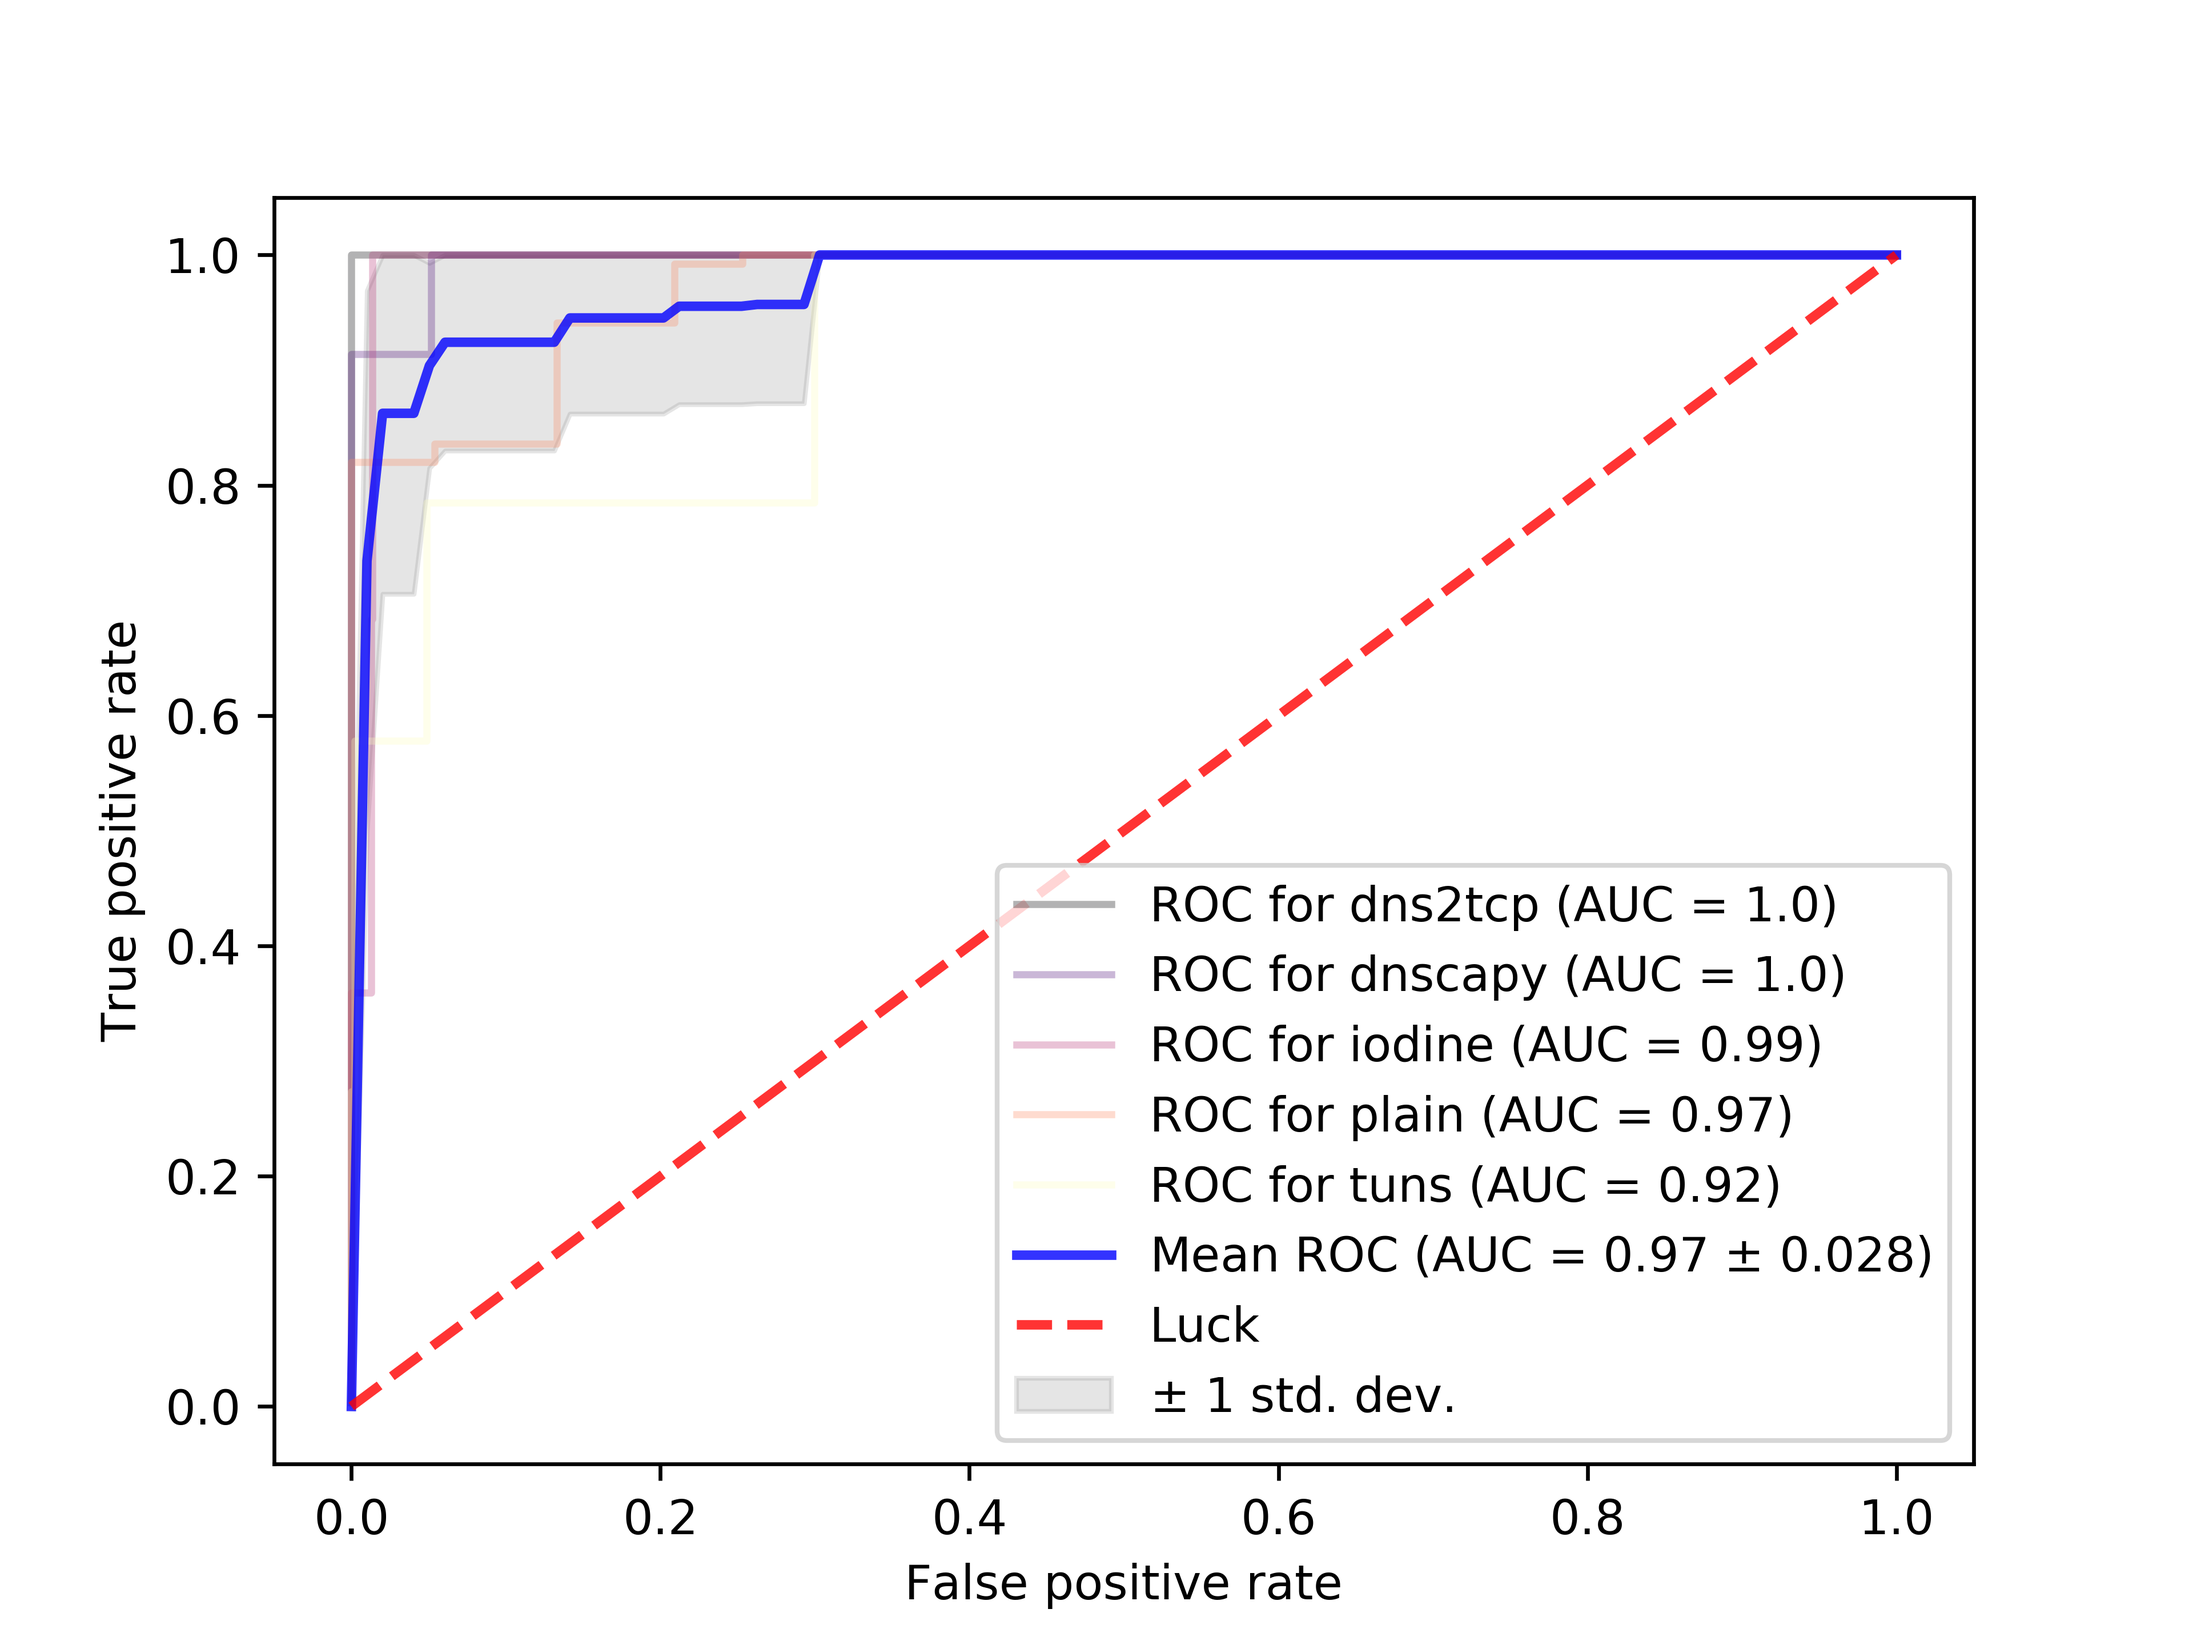
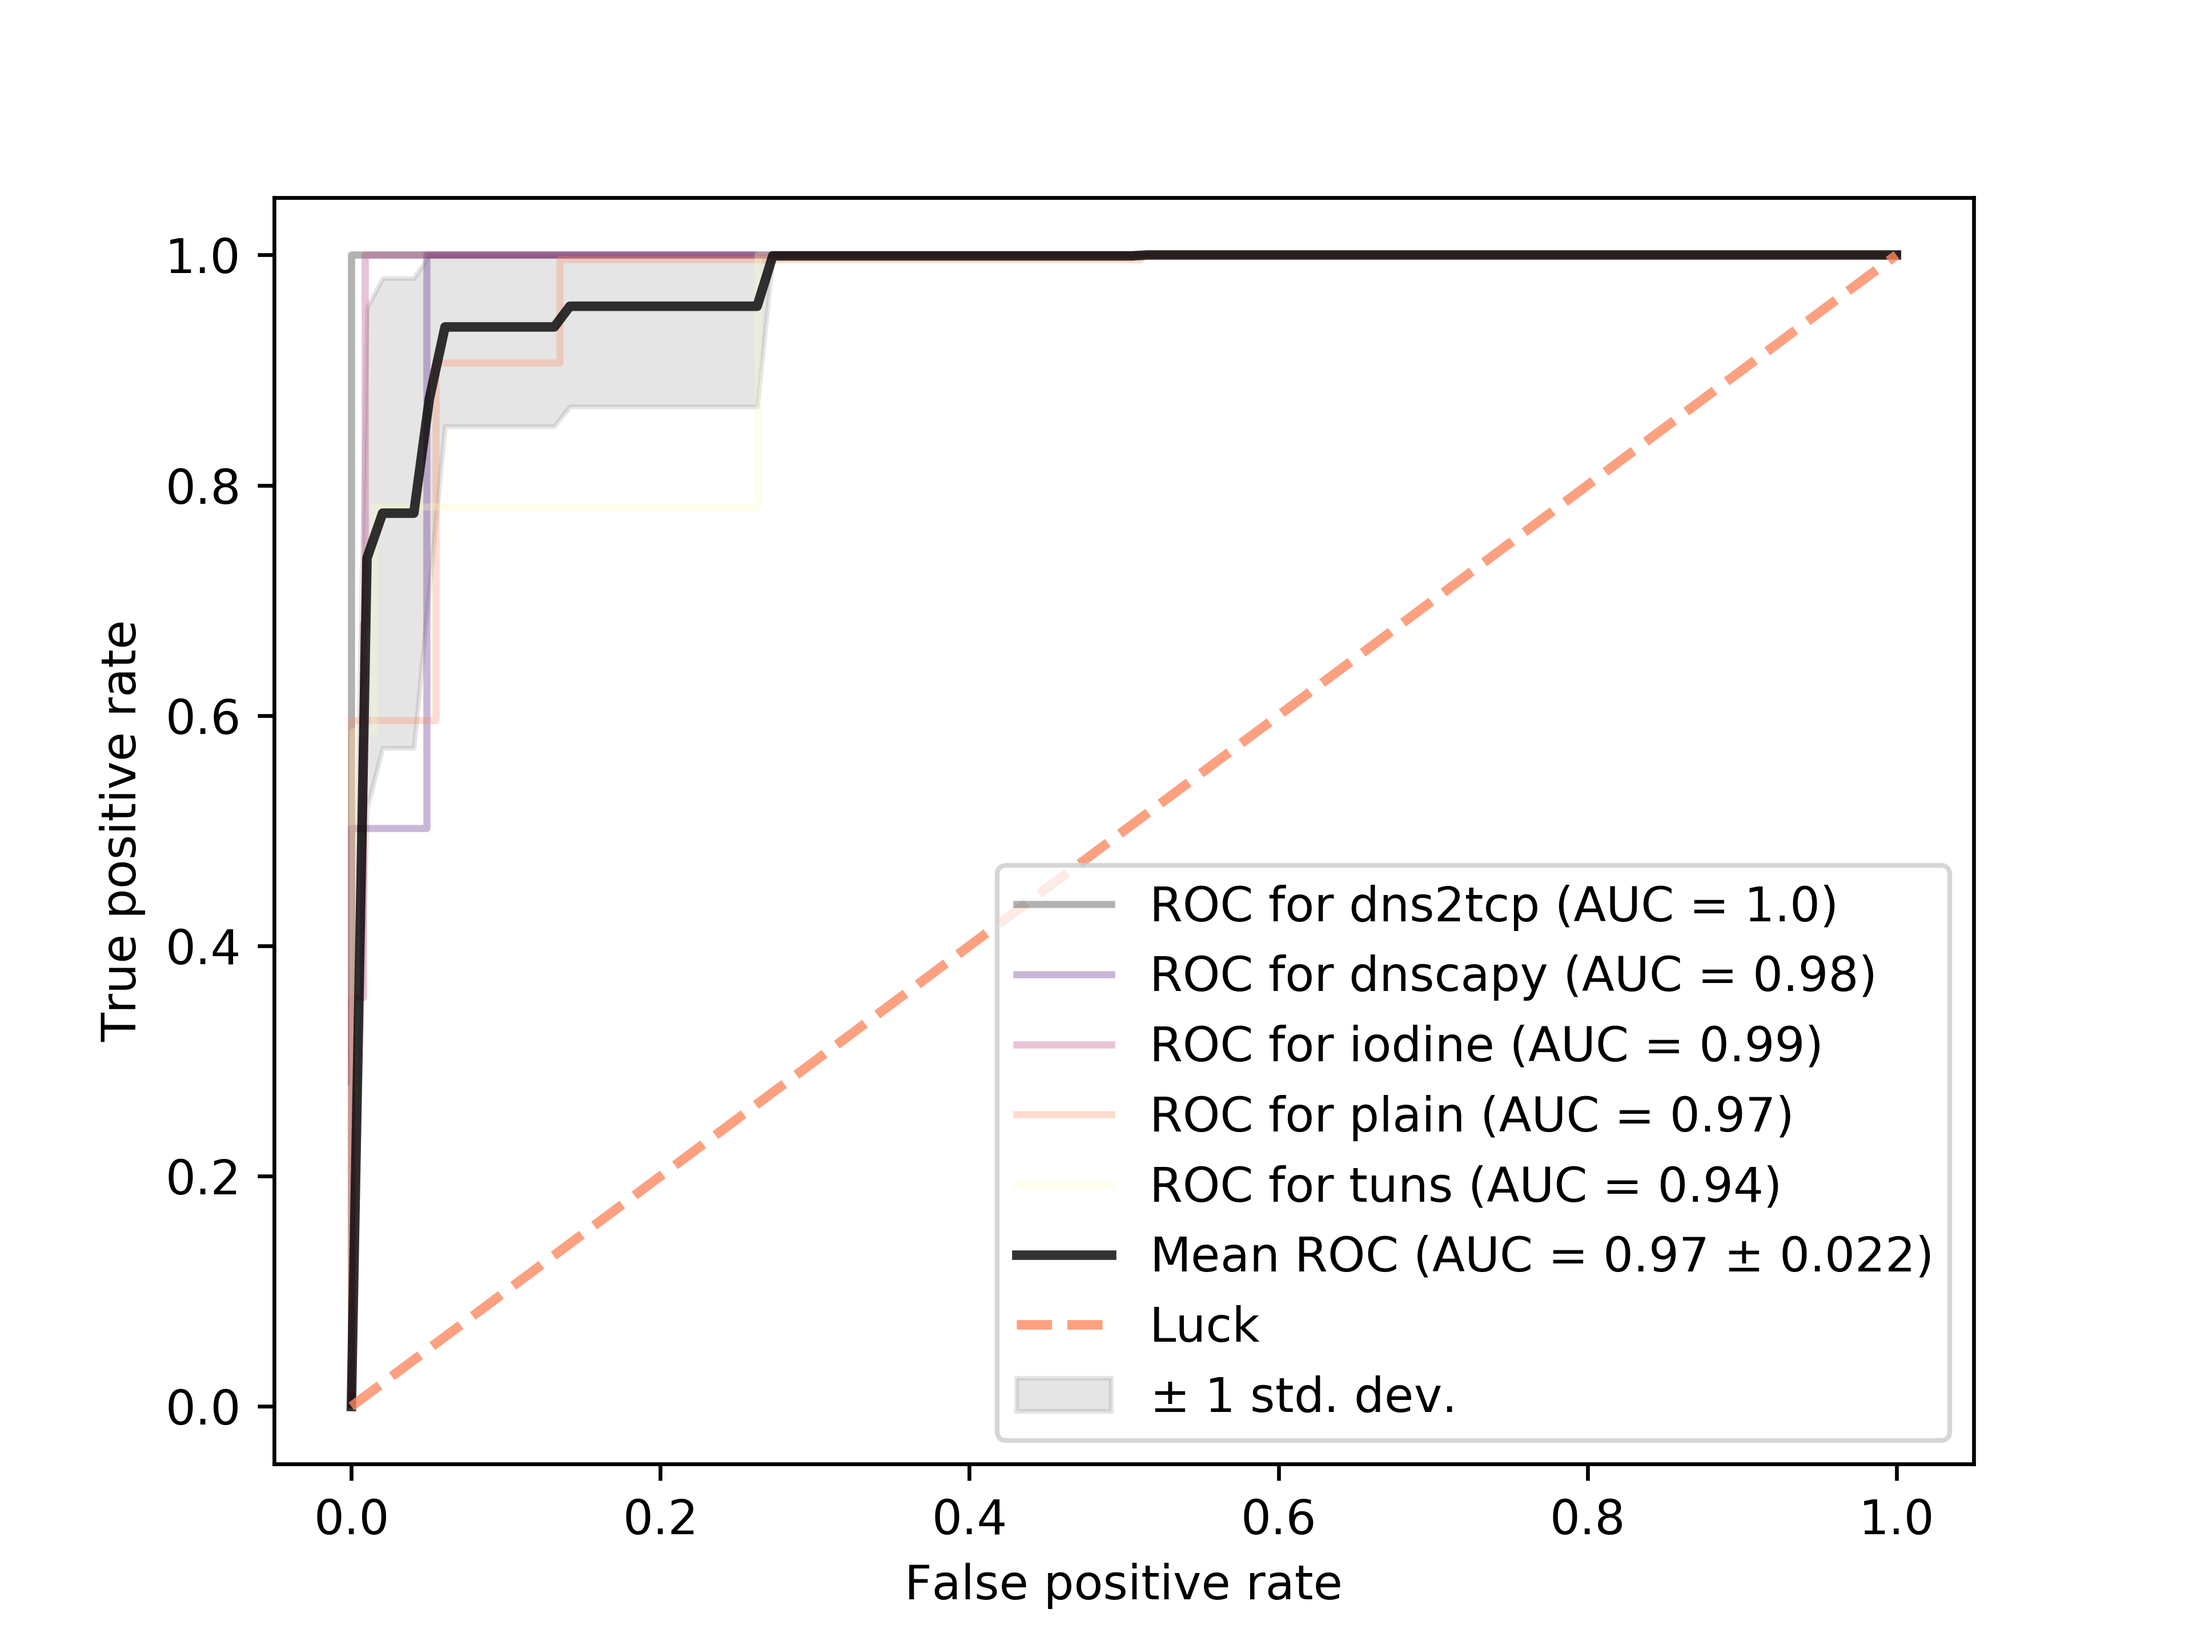
Change the colors of ROC curve plot.

diff --git a/dns/nn.py b/dns/nn.py
@@ -141,7 +141,7 @@ def train_and_estimate(dim, num_classes, units, total, batch_size, filenames):
 
         # Evaluate model accuracy.
         batch = []
-        for _ in range(batch_size*2):
+        for _ in range(batch_size*4):
             for f in files:
                 batch.append(numpy.array(next(f)))
 
@@ -165,6 +165,8 @@ def plot(x_true, y_true, y_score, labels, num_classes, cm=plt.cm.magma):
 
     classes = [Line2D([0], [0], color=cm(l))
                for l in numpy.linspace(0, 1, num_classes-1)]
+
+    orange_color = (0.9867, 0.535582, 0.38221, 1.0)
 
     # A sub-plot for ROC curves.
     _, ax = plt.subplots()
@@ -190,12 +192,12 @@ def plot(x_true, y_true, y_score, labels, num_classes, cm=plt.cm.magma):
     tprs_upper = numpy.minimum(mean_tpr + std_tpr, 1)
     tprs_lower = numpy.maximum(mean_tpr - std_tpr, 0)
 
-    ax.plot(mean_fpr, mean_tpr, color="b", lw=2, alpha=0.8,
+    ax.plot(mean_fpr, mean_tpr, color="black", lw=2, alpha=0.8,
             label="Mean ROC (AUC = {0:.2} $\pm$ {1:.2})".format(
                 mean_auc, std_auc))
     ax.fill_between(mean_fpr, tprs_lower, tprs_upper,
                     color="grey", alpha=0.2, label="$\pm$ 1 std. dev.")
-    ax.plot([0,1], [0,1], linestyle="--", lw=2, color="r",
+    ax.plot([0,1], [0,1], linestyle="--", lw=2, color=orange_color,
             alpha=0.8, label="Luck")
 
     ax.legend(loc="lower right")
